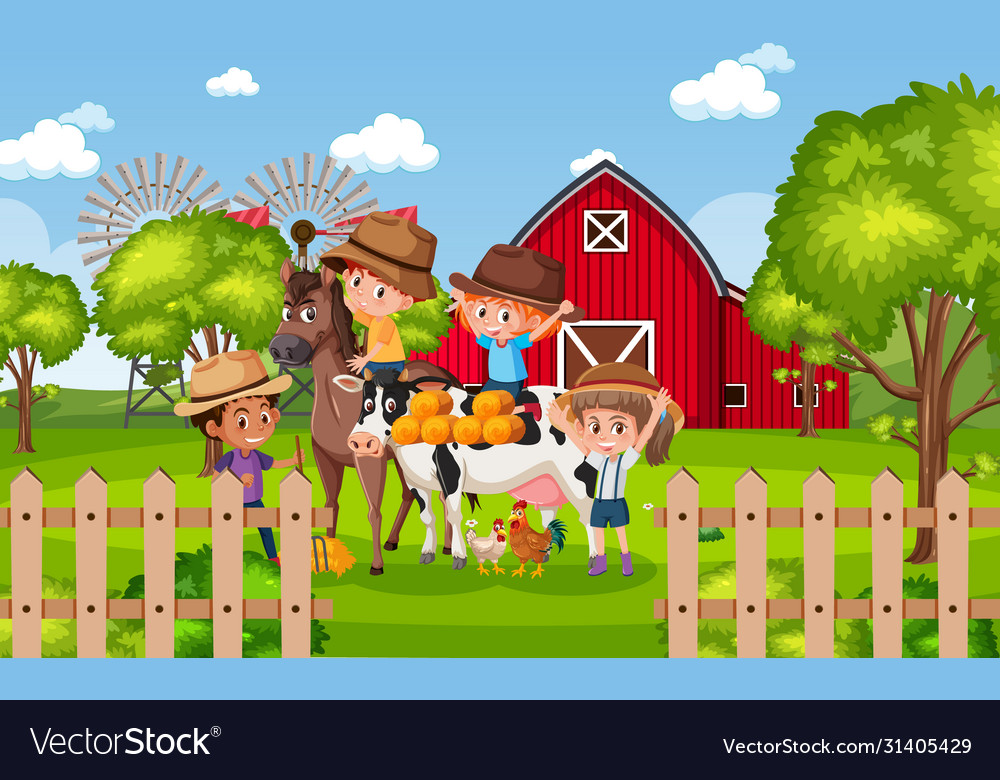
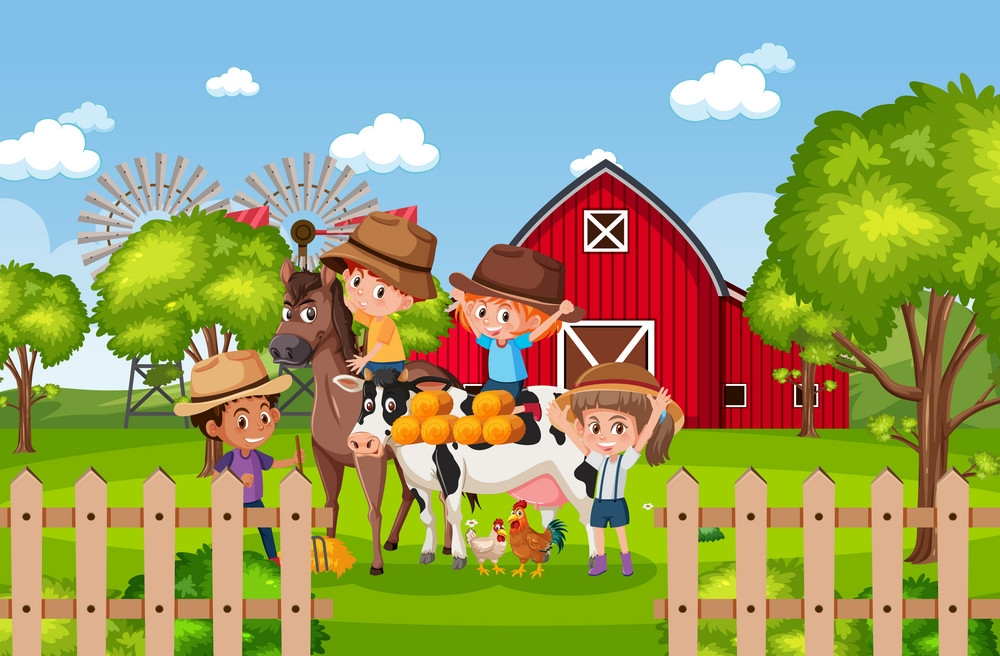
animals positioned correctly on the page, background image bugged

diff --git a/src/AnimalDiv/AnimalDiv.js b/src/AnimalDiv/AnimalDiv.js
@@ -1,7 +1,7 @@
 import './AnimalDiv.css';
 
 export default function AnimalDiv({ name, type, says, top, left }) {
-  return (<div className='animal-div' style={ { position: 'relative', top: { top }, left: { left } }}>
+  return (<div className='animal-div' style={{ position: 'absolute', left: `${left}`, top: `${top}` }}>
     <p>{ name }</p>
     <p>They say { says }</p>
     <img src={`/animals/${type}.svg`}/>

diff --git a/src/App.js b/src/App.js
@@ -1,6 +1,7 @@
 import './App.css';
 import Main from './Main/Main';
 import Header from './Header/Header';
+import Footer from './Footer/Footer';
 import { animals } from './data.js';
 
 function App() {
@@ -8,6 +9,7 @@ function App() {
     <div className="App">
       <Header name='Chad Stabler'/>
       <Main animals={animals}/>
+      <Footer year='2022'/>
     </div>
   );
 }

diff --git a/src/Footer/Footer.js b/src/Footer/Footer.js
@@ -1,0 +1,6 @@
+import React from 'react';
+import './Footer.css';
+
+export default function Footer(detail) {
+  return <div className='footer'>Created by Chad Stabler in {detail.year}</div>;
+}

diff --git a/src/AnimalDiv/AnimalDiv.css b/src/AnimalDiv/AnimalDiv.css
@@ -1,7 +1,8 @@
 .animal-div img {
-    height: 30px;
+    width: 100px;
 }
 
 .animal-div {
-    
+    border: 5px solid red;
+    width: 120px;
 }

diff --git a/src/Main/Main.css b/src/Main/Main.css
@@ -1,4 +1,4 @@
 main {
-    background-size: cover;
+    background-size: 100%;
     background-repeat: no-repeat;
 }

diff --git a/src/Footer/Footer.css b/src/Footer/Footer.css
@@ -1,0 +1,4 @@
+.footer {
+    position: fixed;
+    bottom: 0px;
+}
